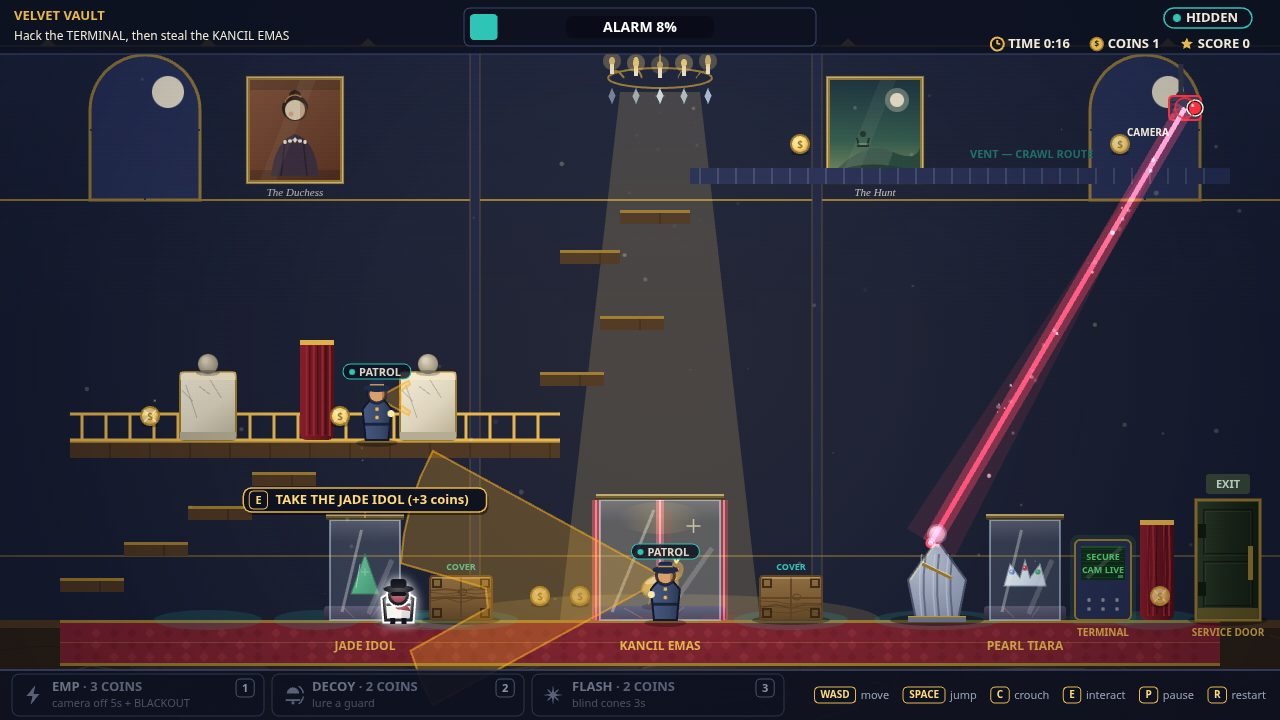
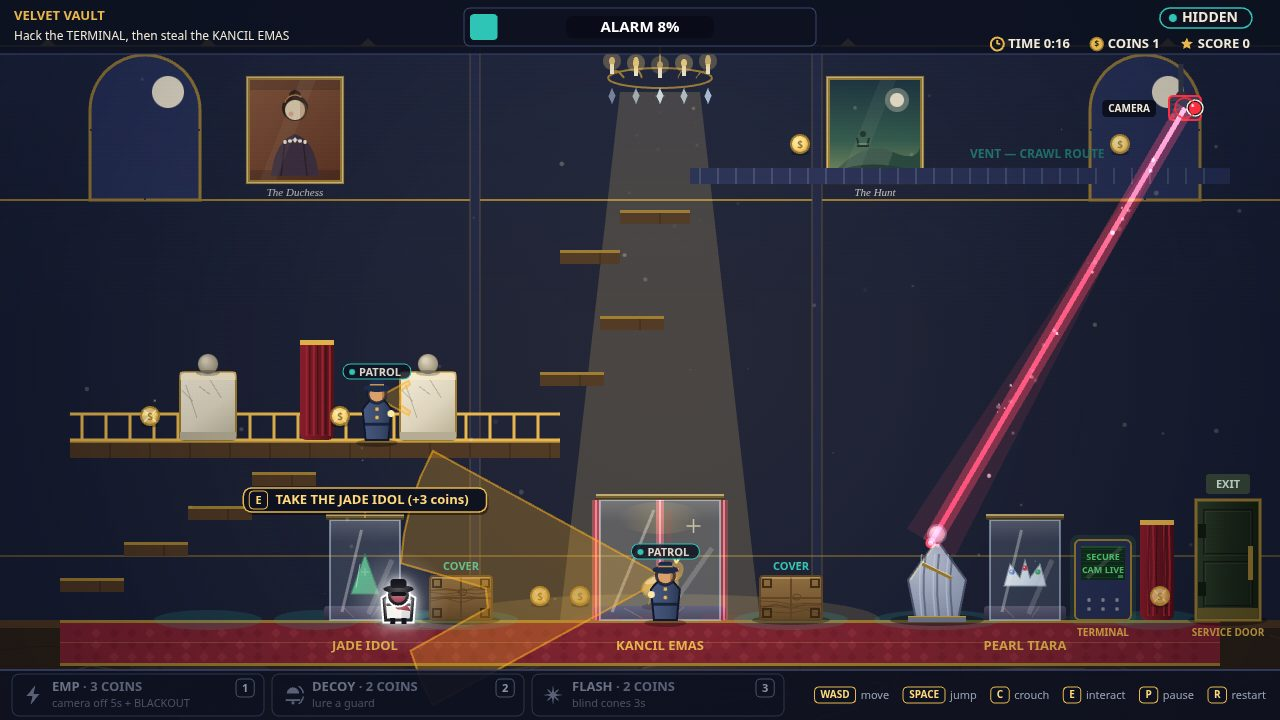
VELVET VAULT rev10 — fix win-subtitle & CAMERA overlaps, 300px thumbnail legibility pass

diff --git a/game/src/render.js b/game/src/render.js
@@ -521,6 +521,24 @@ function drawThief(ctx, s) {
   ctx.beginPath();
   ctx.ellipse(x + w * 0.5, y + h + 4, w * 0.55, 4, 0, 0, Math.PI * 2);
   ctx.fill();
+  // Rev10: a soft white glow behind a CROUCHED thief, so the hidden
+  // thief still reads at 300px — crouched he is 36px tall behind a
+  // crate, and his white coat sank into the crate's shadow at thumbnail
+  // size. The glow is behind the figure, never over it, and it is
+  // live from state (p.crouch); standing, the rev4 halo already does
+  // the job.
+  if (p.crouch) {
+    const cg = ctx.createRadialGradient(
+      x + w * 0.5, y + h * 0.5, 4,
+      x + w * 0.5, y + h * 0.5, 52,
+    );
+    cg.addColorStop(0, 'rgba(255,255,255,0.30)');
+    cg.addColorStop(1, 'rgba(255,255,255,0)');
+    ctx.fillStyle = cg;
+    ctx.beginPath();
+    ctx.arc(x + w * 0.5, y + h * 0.5, 52, 0, Math.PI * 2);
+    ctx.fill();
+  }
   // Rev4: a white halo ring + soft white glow, so the thief reads at
   // 768x480 on the navy wall and the dark carpet. The white silhouette
   // alone sank into the background at contact-sheet size; the halo is
@@ -1095,8 +1113,9 @@ function drawVitrine(ctx, s, key, v) {
     }
     ctx.restore();
   }
-  // Label plate.
-  ctx.font = `bold 12px ${FONT}`;
+  // Label plate. Rev10: 13px, not 12 — KANCIL EMAS is the loot the
+  // judge must find at 300px, and 12px sank into the carpet there.
+  ctx.font = `bold 13px ${FONT}`;
   ctx.textAlign = 'center';
   ctx.fillStyle = PALETTE.gold;
   ctx.fillText(v.label, v.x + v.w / 2, v.y + v.h + 30);
@@ -1521,14 +1540,11 @@ function drawRoom(ctx, s) {
     ctx.stroke();
   }
   ctx.fillStyle = PALETTE.tealDim;
-  ctx.font = `bold 11px ${FONT}`;
+  ctx.font = `bold 12px ${FONT}`;
   ctx.textAlign = 'left';
-  // Rev4: at x=700 the label sat under the win title — "CLEAN
-  // GETAWAY!" (58px, centred) buried its left half. Moved to the
-  // duct's right end, clear of the title and its subtitle, still
-  // directly above the grille it names. At x=1000 the vent coin at
-  // 1120 sat on the word ROUTE; at 970 the label ends ~1095, clear
-  // of the coin and of the camera unit.
+  // Rev10: 12px, not 11 — the route label is a criterion-2 signpost
+  // and 11px vanished at 300px. At 12px it ends ~1103, still clear of
+  // the vent coin at 1120.
   ctx.fillText('VENT — CRAWL ROUTE', 970, 158);
 
   // Teal safe-cover glow under every cover block.
@@ -1595,7 +1611,7 @@ function drawRoom(ctx, s) {
       ctx.fillStyle = 'rgba(255,220,150,0.35)';
       ctx.fillRect(c.x + 2, c.y + 1, c.w - 4, 2);
       ctx.fillStyle = PALETTE.teal;
-      ctx.font = `bold 9px ${FONT}`;
+      ctx.font = `bold 11px ${FONT}`;
       ctx.textAlign = 'center';
       ctx.fillText('COVER', c.x + c.w / 2, c.y - 6);
     } else if (c.kind === 'plinth') {
@@ -2045,10 +2061,26 @@ function drawCameraUnit(ctx, s) {
     ctx.arc(CAMERA.x - 12, CAMERA.y + 8, 2.2, 0, Math.PI * 2);
     ctx.fill();
   }
-  ctx.fillStyle = '#f2ead8';
+  // Rev10: the label is now a nameplate LEFT of the housing, vertically
+  // centred on it, with a dark pill behind it. The old spot (below the
+  // housing, left-aligned at CAMERA.x - 58) sat in the beam's sweep: at
+  // leftward angles the hot core crossed the label's right end, and the
+  // label is drawn before the laser, so the beam washed over it. Right-
+  // aligned to end at CAMERA.x - 35, it clears the beam's leftmost halo
+  // by ~30px, the moon (left edge 1152) and the vent coin at (1120,144)
+  // below; the pill keeps it readable where it crosses the window
+  // frame's corner. The text itself is still the live camera state.
+  const label = cam.offT > 0 ? 'CAMERA OFF' : 'CAMERA';
   ctx.font = 'bold 10px ' + FONT;
+  const lw = ctx.measureText(label).width;
+  const lx = CAMERA.x - 35 - lw;
+  const ly = CAMERA.y + 4;
+  ctx.fillStyle = 'rgba(8,10,22,0.85)';
+  roundRect(ctx, lx - 6, ly - 12, lw + 12, 17, 4);
+  ctx.fill();
+  ctx.fillStyle = '#f2ead8';
   ctx.textAlign = 'left';
-  ctx.fillText(cam.offT > 0 ? 'CAMERA OFF' : 'CAMERA', CAMERA.x - 58, CAMERA.y + 28);
+  ctx.fillText(label, lx, ly);
   ctx.restore();
 }
 
@@ -2176,7 +2208,7 @@ function drawHud(ctx, s) {
   roundRect(ctx, ax + aw / 2 - 74, 16, 148, 22, 6);
   ctx.fill();
   ctx.fillStyle = '#ffffff';
-  ctx.font = `bold 14px ${FONT}`;
+  ctx.font = `bold 15px ${FONT}`;
   ctx.textAlign = 'center';
   ctx.fillText(`ALARM ${Math.floor(alarm)}%`, ax + aw / 2, 32);
   // Detection pill + live stats (right): the status is a designed
@@ -2192,7 +2224,7 @@ function drawHud(ctx, s) {
   if (!word.startsWith('SEEN')) {
     const spotted = word === 'SPOTTED';
     const pillColor = spotted ? PALETTE.amber : PALETTE.teal;
-    ctx.font = `bold 13px ${FONT}`;
+    ctx.font = `bold 14px ${FONT}`;
     const wordW = ctx.measureText(word).width;
     const pw = wordW + 36;
     const px = 1252 - pw;
@@ -2366,6 +2398,24 @@ function drawHud(ctx, s) {
 function drawTitle(ctx, s) {
   ctx.fillStyle = 'rgba(10,13,26,0.62)';
   ctx.fillRect(0, 0, FIELD.width, FIELD.height);
+  // Rev10: a soft spotlight on the waiting thief, drawn over the veil
+  // so he reads at 300px — behind the 0.62 veil he shrank to a speck
+  // at thumbnail size. The pool is centred on the live thief position
+  // from state, and it lightens the veil around him without touching
+  // the title text drawn after it.
+  {
+    const p = s.player;
+    const tg = ctx.createRadialGradient(
+      p.x + p.width / 2, p.y + p.height / 2, 6,
+      p.x + p.width / 2, p.y + p.height / 2, 78,
+    );
+    tg.addColorStop(0, 'rgba(255,240,200,0.28)');
+    tg.addColorStop(1, 'rgba(255,240,200,0)');
+    ctx.fillStyle = tg;
+    ctx.beginPath();
+    ctx.arc(p.x + p.width / 2, p.y + p.height / 2, 78, 0, Math.PI * 2);
+    ctx.fill();
+  }
   ctx.textAlign = 'center';
   ctx.fillStyle = PALETTE.goldBright;
   ctx.font = `bold 64px ${FONT_DISPLAY}`;
@@ -2445,43 +2495,47 @@ function drawWin(ctx, s) {
     ctx.fillStyle = color;
     ctx.fillText(text, x, y);
   };
-  // Rev9: the layout moves up so the grade can wear a medal. Title at
-  // 138 and subtitle at 172 both clear "The Hunt" painting (frame
-  // bottom 184, label 196); the medal hangs between the subtitle and
-  // the grade; the stats become a clean table in a gold-edged panel;
-  // Press R at 494 still clears the vitrine tops (y 500).
+  // Rev10: the subtitle is TWO lines now. The rev9 single line at y 172
+  // was centred and ~670px wide, so its right end crossed "The Hunt"
+  // painting (frame 826-924 x 76-184) and struck through the VENT label
+  // — the rev9 comment claimed it cleared the frame, but 172 sits
+  // INSIDE the frame's vertical band, not below it. Two short lines
+  // (widest ~330px, spanning ~477-803) clear the painting, the vent
+  // label and the medal; both lines stay live from state (detections).
+  // Title at 132, lines at 164/190, medal shifted down to match.
   ctx.font = `bold 40px ${FONT_DISPLAY}`;
-  line('CLEAN GETAWAY!', FIELD.width / 2, 138, PALETTE.goldBright);
+  line('CLEAN GETAWAY!', FIELD.width / 2, 132, PALETTE.goldBright);
   ctx.font = `22px ${FONT}`;
+  line('The Kancil Emas is yours.', FIELD.width / 2, 164, PALETTE.text);
   line(
     s.detections === 0
-      ? 'The Kancil Emas is yours. The gallery never saw a thing.'
-      : 'The Kancil Emas is yours — spotted, but never caught.',
-    FIELD.width / 2, 172, PALETTE.text,
+      ? 'The gallery never saw a thing.'
+      : 'Spotted — but never caught.',
+    FIELD.width / 2, 190, PALETTE.text,
   );
   // The medal: red ribbon tails + a gold medallion with a star, hung
   // above the grade like a prize.
   ctx.fillStyle = '#8a1a2a';
   ctx.beginPath();
-  ctx.moveTo(624, 192);
-  ctx.lineTo(640, 192);
-  ctx.lineTo(632, 212);
+  ctx.moveTo(624, 200);
+  ctx.lineTo(640, 200);
+  ctx.lineTo(632, 220);
   ctx.closePath();
   ctx.fill();
   ctx.beginPath();
-  ctx.moveTo(640, 192);
-  ctx.lineTo(656, 192);
-  ctx.lineTo(648, 212);
+  ctx.moveTo(640, 200);
+  ctx.lineTo(656, 200);
+  ctx.lineTo(648, 220);
   ctx.closePath();
   ctx.fill();
   ctx.fillStyle = PALETTE.goldBright;
   ctx.beginPath();
-  ctx.arc(640, 222, 15, 0, Math.PI * 2);
+  ctx.arc(640, 230, 15, 0, Math.PI * 2);
   ctx.fill();
   ctx.strokeStyle = PALETTE.goldDim;
   ctx.lineWidth = 2;
   ctx.stroke();
-  drawIcon(ctx, 'star', 640, 222, 16, '#8a6a1e');
+  drawIcon(ctx, 'star', 640, 230, 16, '#8a6a1e');
   // Grade, big, flanked by gold stars.
   ctx.font = `bold 84px ${FONT_DISPLAY}`;
   line(`GRADE ${s.grade}`, FIELD.width / 2, 312, PALETTE.gold);
